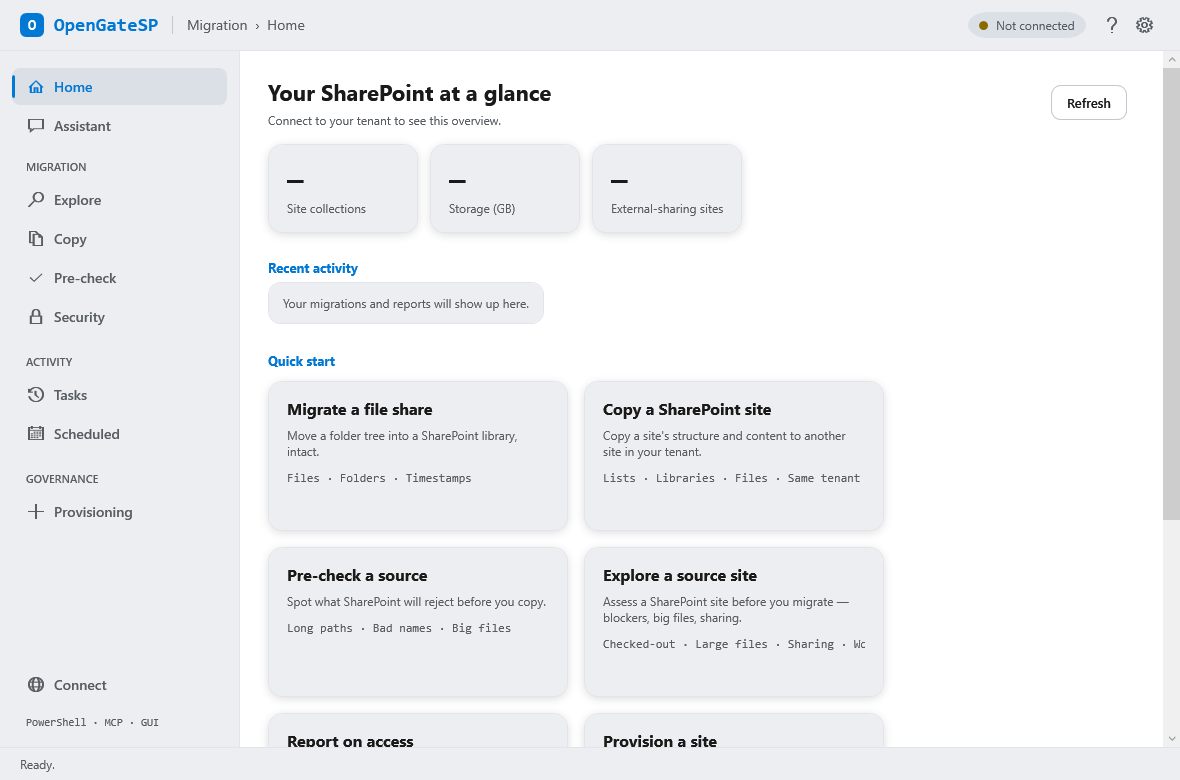
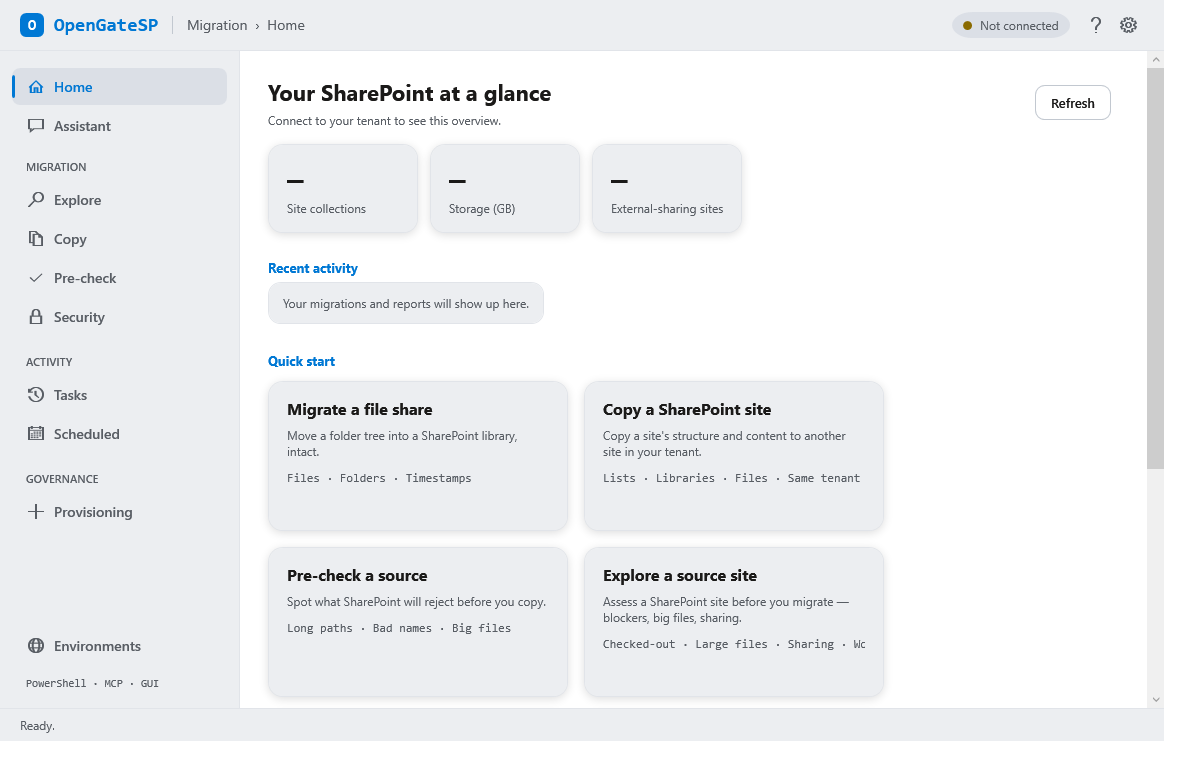
docs(readme): Fluent Light screenshots + identity/environments in the comparison
Screenshots re-captured from the real GUI in the default Microsoft-white Fluent Light
theme (off-screen render, sandboxed APPDATA): the light Home dashboard is the hero,
the assistant mid-conversation with a write preview on its Apply button, and a new
Environments shot (two saved tenants, Active pill, per-row Connect/Remove). The dark
hero is retired.

README: identity copy and environments move to checkmarks in the ShareGate comparison
(the gaps paragraph now names only version fidelity and policy automation); the Copy
paragraph mentions identity copy (PowerShell/MCP; passwords/licenses never migrate).

The screenshot pass also caught a real layout bug on the Environments form — the
sign-in checkboxes and caption overflowed the form column at default width. The four
checkboxes now wrap, the caption sits under the buttons, and environment-row text
ellipsizes instead of clipping.

diff --git a/gui/MainWindow.xaml b/gui/MainWindow.xaml
@@ -240,23 +240,21 @@
                             <TextBlock Grid.Row="4" Grid.Column="0" Text="Tenant" VerticalAlignment="Center"/>
                             <TextBox   Grid.Row="4" Grid.Column="1" x:Name="TbTenant" AutomationProperties.Name="Tenant"/>
 
-                            <StackPanel Grid.Row="5" Grid.Column="1" Orientation="Horizontal">
-                                <CheckBox x:Name="CbAdmin"  Content="Admin centre (tenant-wide)"/>
-                                <CheckBox x:Name="CbDevice" Content="Device-code sign-in"/>
-                            </StackPanel>
-                            <StackPanel Grid.Row="6" Grid.Column="1" Orientation="Horizontal">
-                                <CheckBox x:Name="CbOSLogin" Content="Sign in with Windows (no browser)"
+                            <WrapPanel Grid.Row="5" Grid.Column="1" Margin="0,2,0,0">
+                                <CheckBox x:Name="CbAdmin"  Content="Admin centre (tenant-wide)" Margin="0,0,14,4"/>
+                                <CheckBox x:Name="CbDevice" Content="Device-code sign-in" Margin="0,0,14,4"/>
+                                <CheckBox x:Name="CbOSLogin" Content="Sign in with Windows (no browser)" Margin="0,0,14,4"
                                           ToolTip="Windows Hello / your Windows account. Needs a one-time app change (see the guide) — falls back to the browser automatically."/>
-                                <CheckBox x:Name="CbKeepSignedIn" Content="Keep me signed in"
+                                <CheckBox x:Name="CbKeepSignedIn" Content="Keep me signed in" Margin="0,0,14,4"
                                           ToolTip="Stay signed in across restarts on this device. Off = this session only. Sign out clears it."/>
-                            </StackPanel>
+                            </WrapPanel>
 
-                            <StackPanel Grid.Row="7" Grid.Column="1" Orientation="Horizontal" Margin="0,4,0,0">
+                            <StackPanel Grid.Row="6" Grid.Column="1" Orientation="Horizontal" Margin="0,6,0,0">
                                 <Button x:Name="BtnConnect" Content="Connect &amp; save"/>
                                 <Button x:Name="BtnEnvSignOut" Content="Sign out" Style="{DynamicResource GhostButton}" Margin="8,0,0,0"/>
-                                <TextBlock Text="Connecting saves this environment and makes it active. Your browser signs you in (SSO)."
-                                           Style="{DynamicResource Muted}" Margin="10,0,0,0" VerticalAlignment="Center" TextWrapping="Wrap" MaxWidth="300"/>
                             </StackPanel>
+                            <TextBlock Grid.Row="7" Grid.Column="1" Style="{DynamicResource Muted}" Margin="0,8,0,0" TextWrapping="Wrap"
+                                       Text="Connecting saves this environment and makes it active. Your browser signs you in (SSO)."/>
                         </Grid>
                     </Grid>
                 </DockPanel>

diff --git a/README.md b/README.md
@@ -10,7 +10,7 @@
 > up the mess, and schedule the reports — with a built-in AI assistant that runs on **your own**
 > model. No tiers, no trials, no sales call.
 
-![OpenGateSP — the home dashboard](docs/screenshot-dark.png)
+![OpenGateSP — the home dashboard](docs/screenshot-light.png)
 
 ## Download & install
 
@@ -34,7 +34,10 @@ anything.
 
 **Copy sites, Teams & Groups.** Copy a site's lists, libraries, and content to another site — in
 your tenant or a different one. Clone a Team with its channels and members, a Microsoft 365
-Group, or a Planner plan. Bring permissions along, remapping people with a simple CSV.
+Group, or a Planner plan. Bring permissions along, remapping people with a simple CSV — or go
+further and **copy the identities themselves**: inventory a tenant's users and groups, review a
+mapping CSV, and recreate them in the destination tenant (PowerShell/MCP; passwords and licenses
+never migrate, by design).
 
 **See who has access to what.** External sharing, full permission reports, a who-can-touch-what
 matrix, "Everyone" oversharing, ownerless Groups, and people who left the company but still have
@@ -87,16 +90,15 @@ on [PnP PowerShell](https://pnp.github.io/powershell/) — not affiliated with S
 | **Built-in AI assistant — your own model** | — | **✅** |
 | Drive it from your own AI app (MCP) | — | **✅** |
 | Open source you can read, fork, and own | — | **✅** |
-| Copy identities (Entra tenant-to-tenant) | ✅ | planned |
+| Copy identities (Entra tenant-to-tenant) | ✅ | ✅ |
+| Connect to environments (saved tenants, SSO) | ✅ | ✅ |
 | Full per-version history fidelity | ✅ | best-effort |
 | Automated governance policies | ✅ | partial |
 
 The gaps are real and we say so: full version-history fidelity needs the SharePoint Migration
-API (best-effort here today), ShareGate Protect's *automated* policy engine is only partially
-covered (OpenGateSP does the reporting and the cleanup, not yet always-on policies), and
-ShareGate's new **Copy identities** (creating users and groups in a destination tenant) is on the
-[roadmap](docs/roadmap.md) — OpenGateSP currently remaps identities during a copy rather than
-creating them.
+API (best-effort here today), and ShareGate Protect's *automated* policy engine is only
+partially covered (OpenGateSP does the reporting and the cleanup, not yet always-on policies) —
+both are on the [roadmap](docs/roadmap.md).
 
 ## Is it safe?
 
@@ -124,7 +126,7 @@ Setup guides: [prerequisites](docs/01-prerequisites.md), [app registration](docs
 [headless/scheduled auth](docs/05-app-only-auth.md). To drive it from Claude, Codex, or Cursor,
 hook up the [MCP server](mcp-server/README.md) — write tools are preview-gated there too.
 
-![OpenGateSP light theme](docs/screenshot-light.png)
+![OpenGateSP — saved environments with one-click switching](docs/screenshot-environments.png)
 
 Four themes, picked on first run, changeable any time.
 
